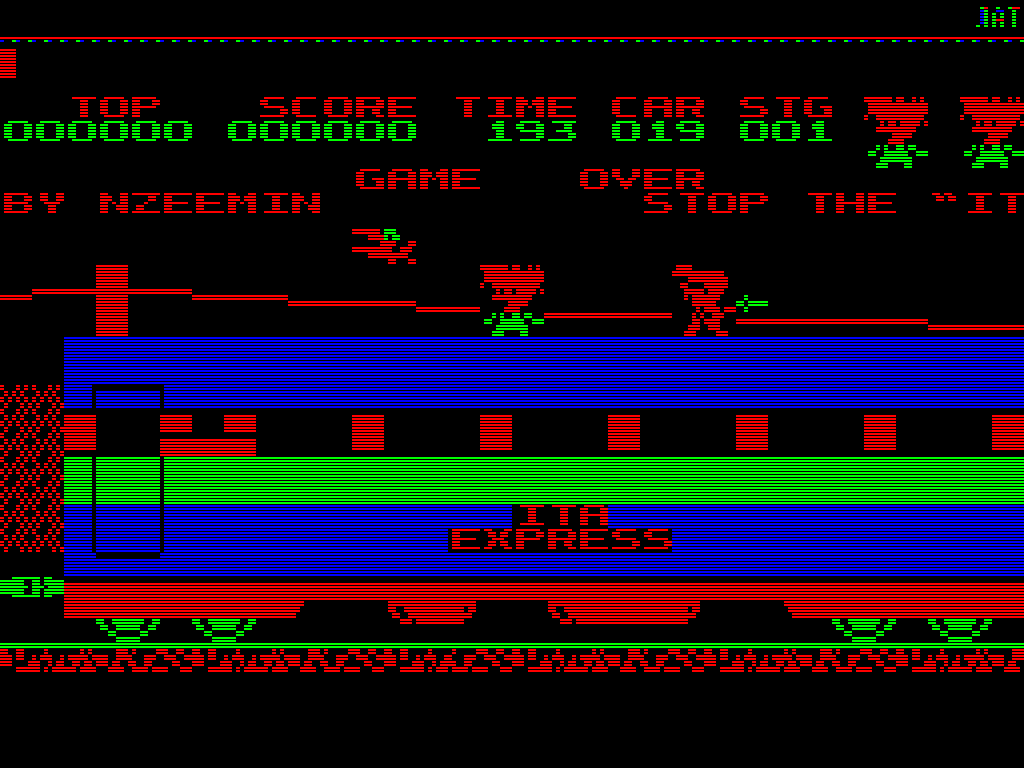
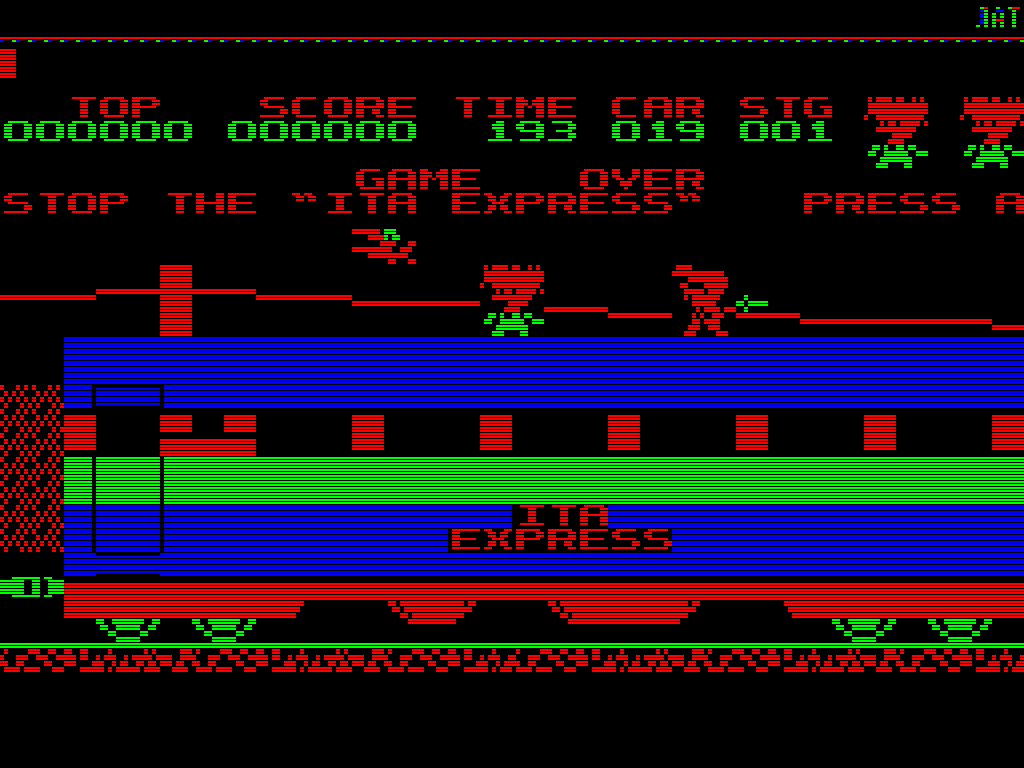
Updating README and screenshots.

diff --git a/README.md b/README.md
@@ -6,6 +6,10 @@ In 1990 the game was ported to Elektronika MS-0515 (PDP11-like computer based on
 In 2017 I ported the game to UKNC.
 And finally in September 2018 I started porting the game to BK-0010 machine.
 
+The real challange was to fit 32K game into 16K RAM available on BK-0010.
+So I stripped down the game: removed demo mode sequence, reduced number of tiles and re-worked the way the tiles drawn, removed locomotion tiles used on the last scene of the game,
+the info screen now shown only once at the beginning and the memory used after that, and finally removed all sound effects.
+
 Screenshots of the ported version:
 
 ![](screenshot/titlescreen.png)
